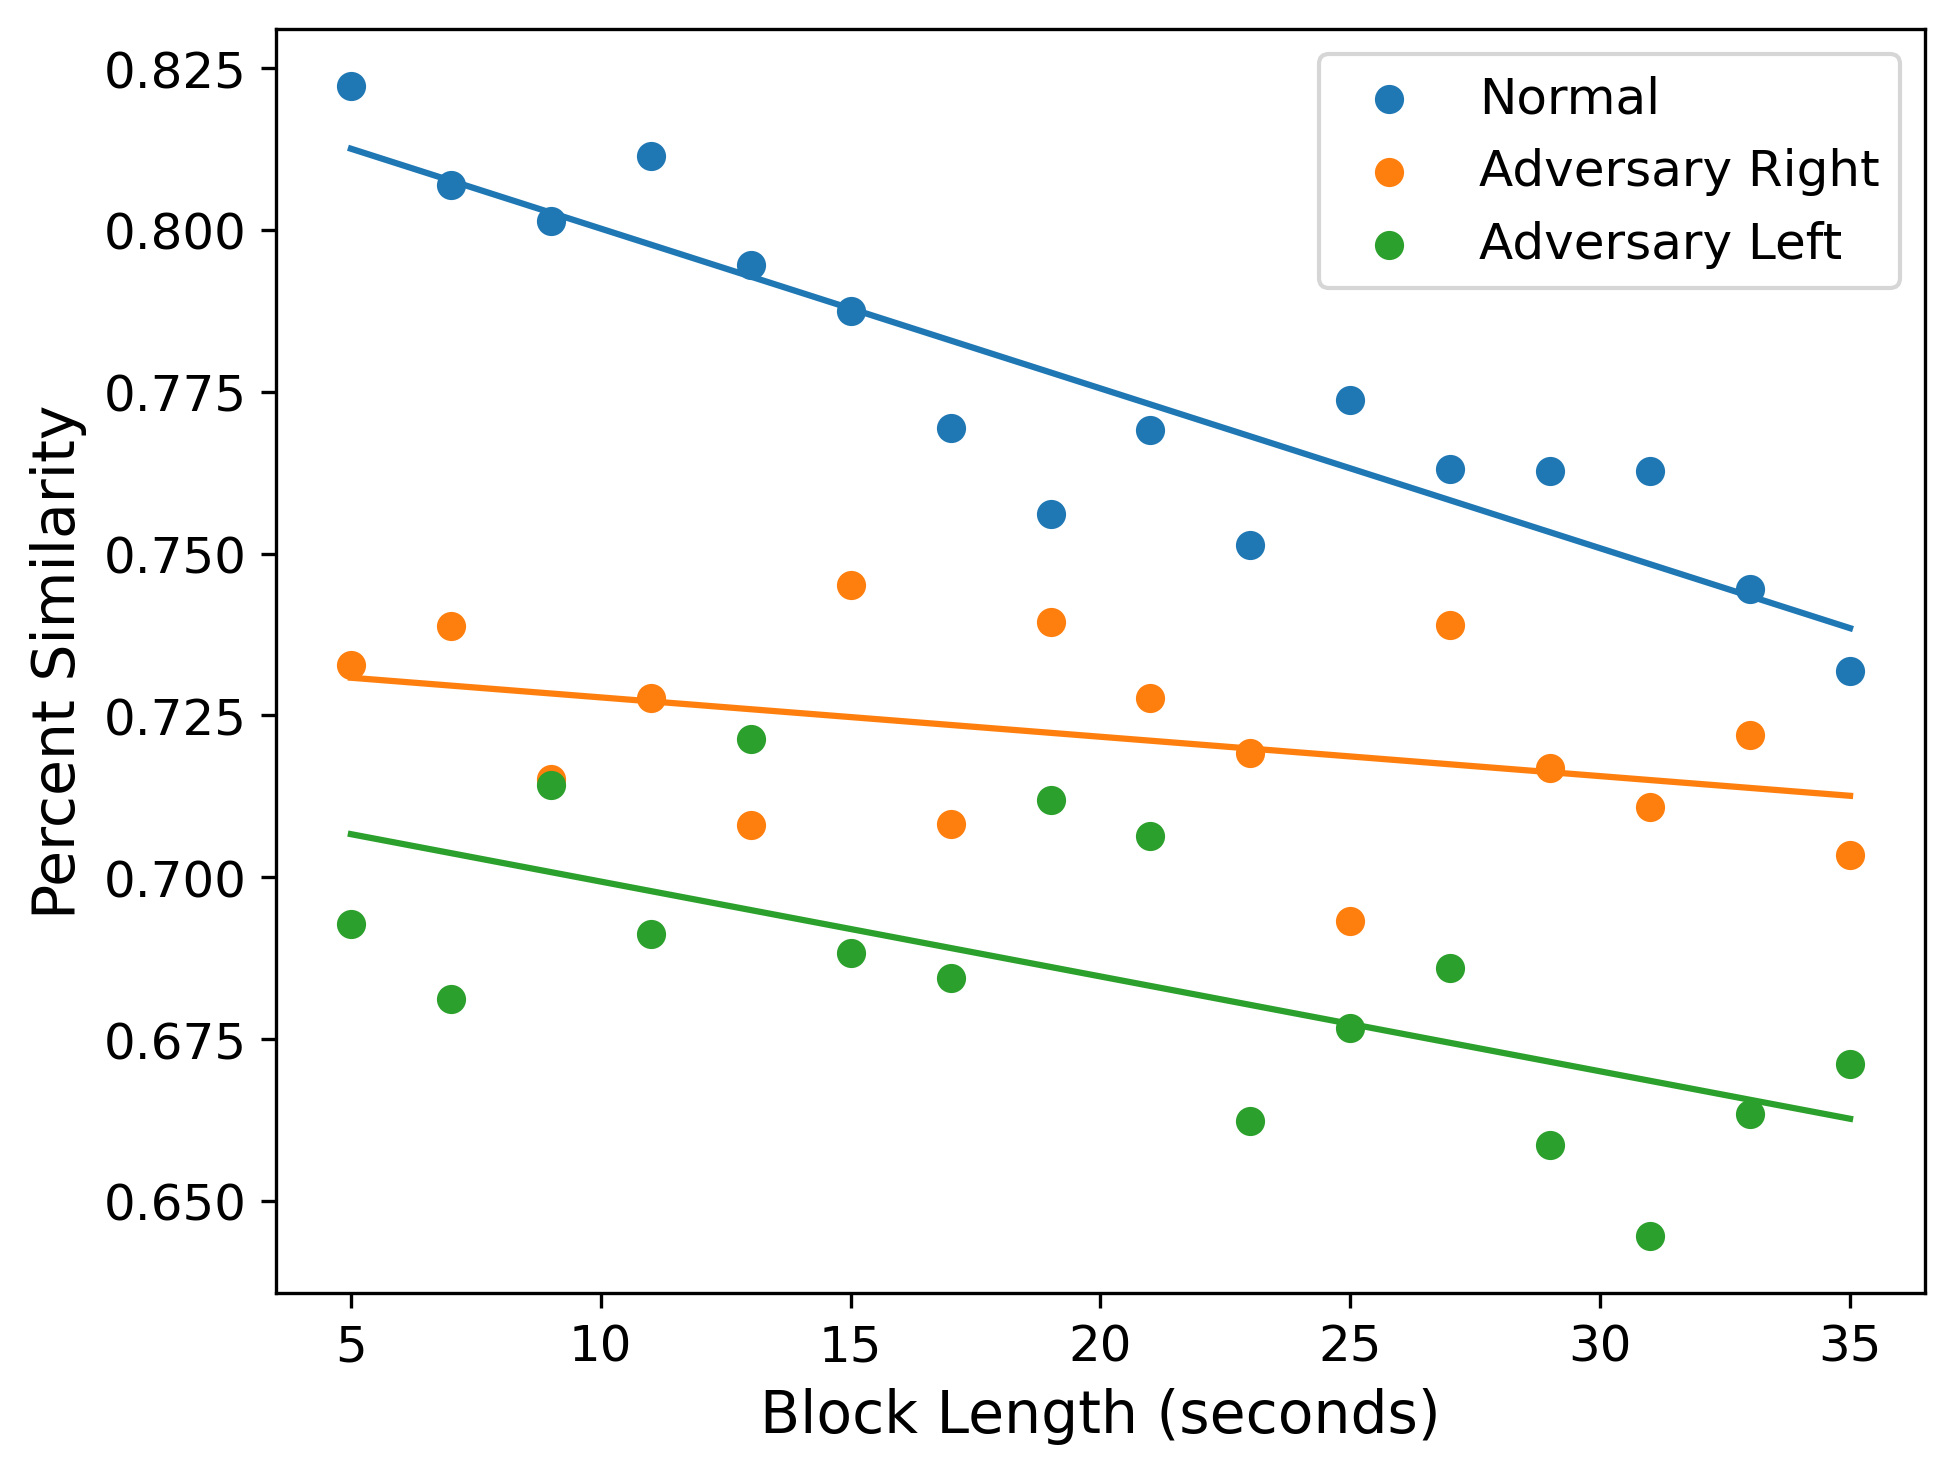
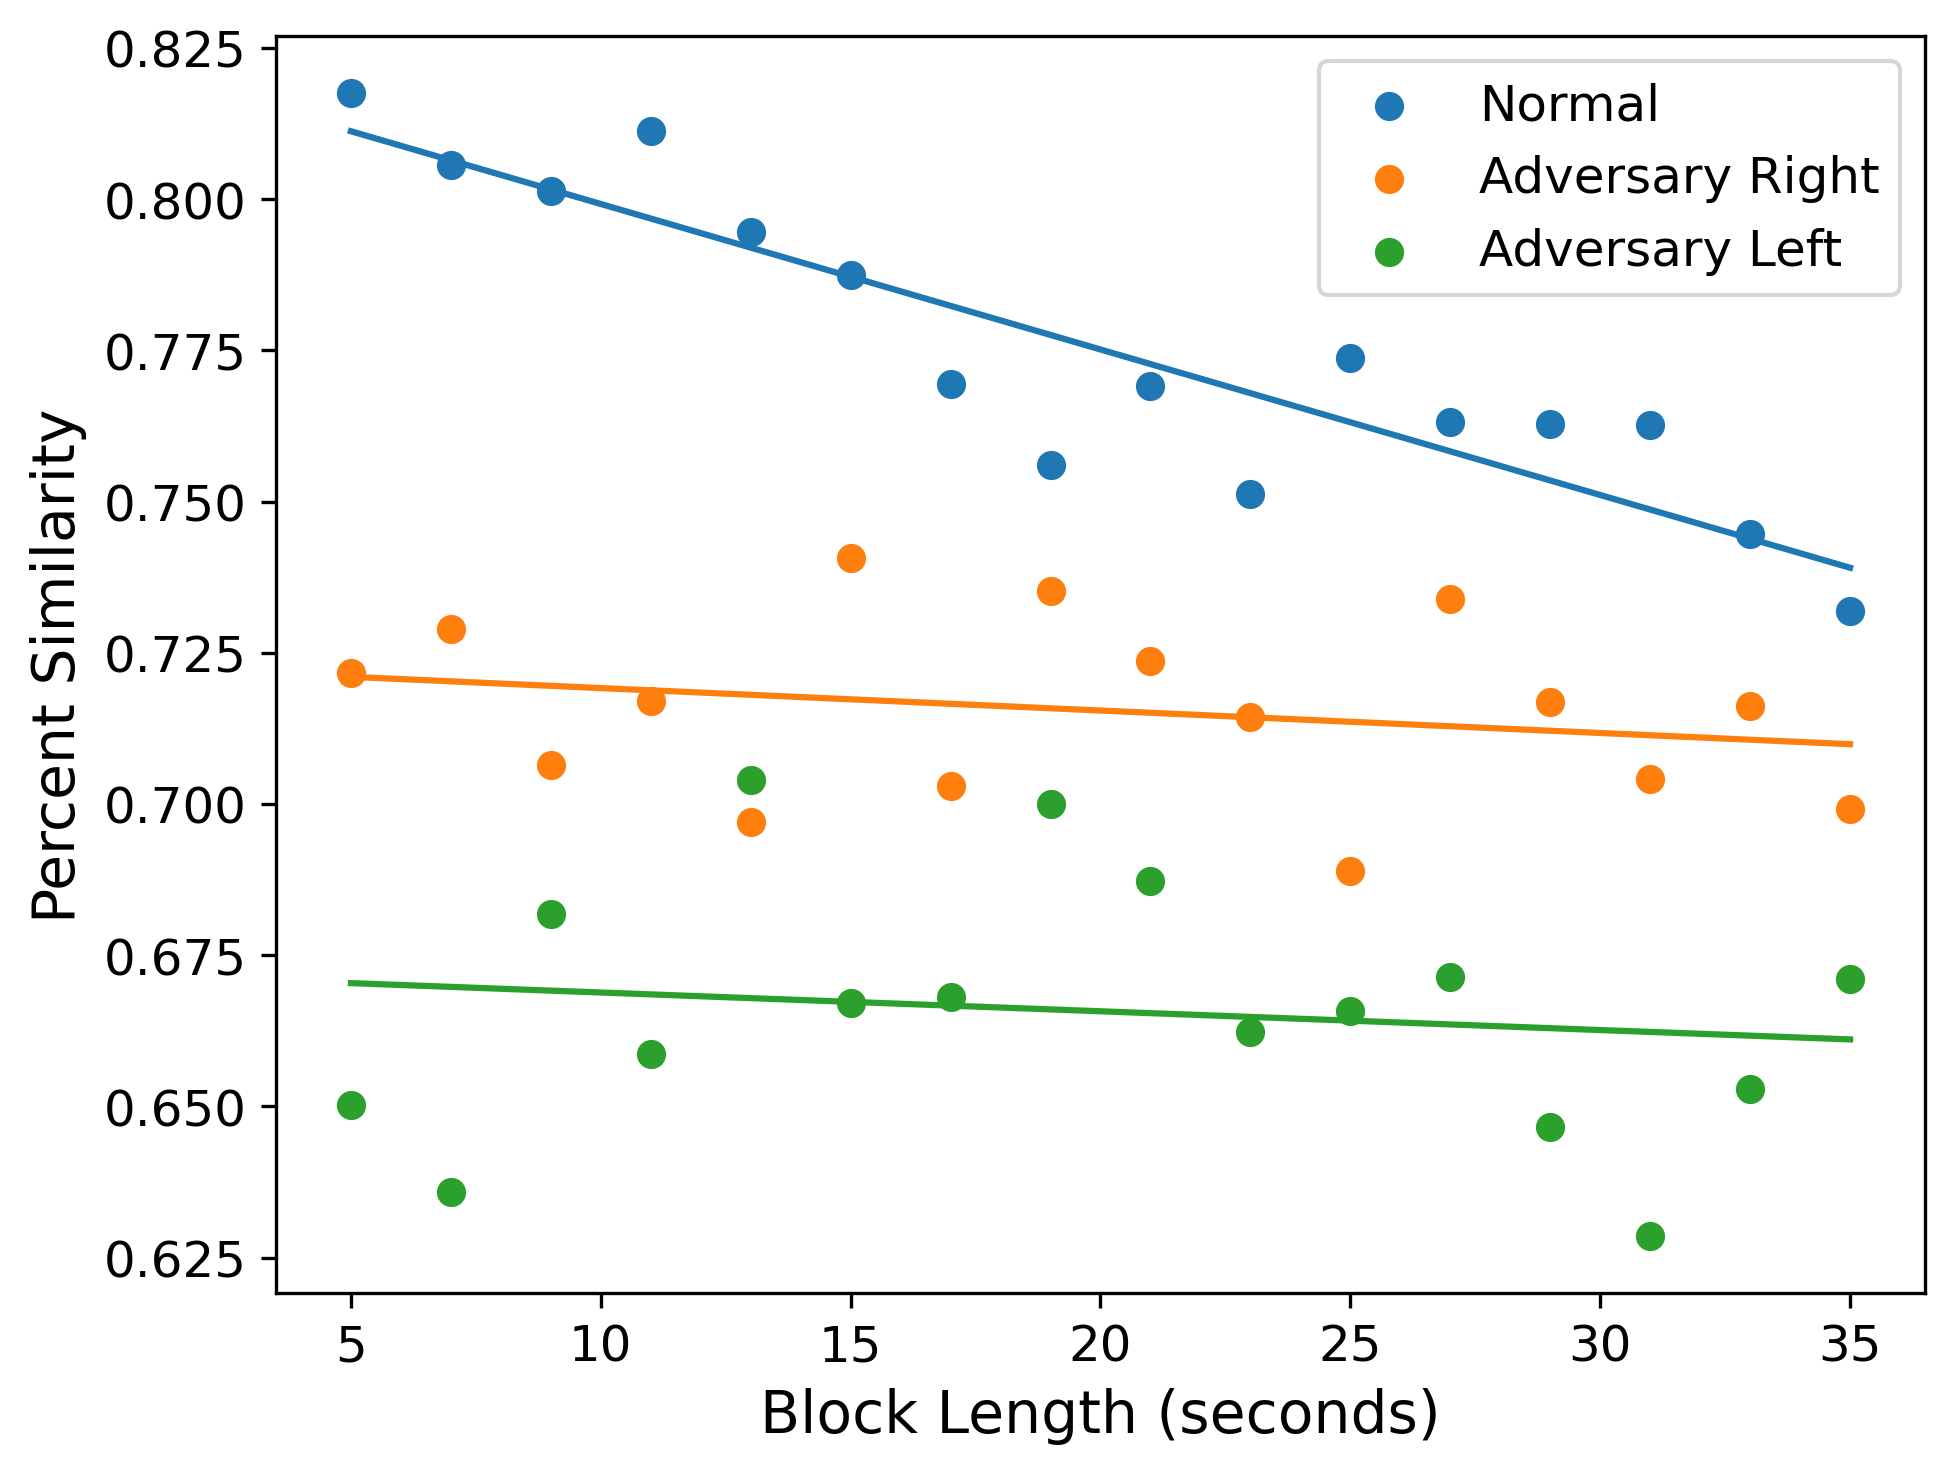
Modified all the things to match the thing

diff --git a/encode.py b/encode.py
@@ -2,6 +2,7 @@ import pandas as pd
 import numpy as np
 import matplotlib.pyplot as plt
 import matplotlib
+import math
 
 def encode_event(t, e, reverse=False, time_resolution=4, bits_to_drop=1):
     """
@@ -17,7 +18,7 @@ def encode_event(t, e, reverse=False, time_resolution=4, bits_to_drop=1):
 
     return gray_code[int(t/(1<<bits_to_drop)) % (1<<time_resolution)] + (normal_map[e] if not reverse else reverse_map[e])
 
-def encode_zone(filename, start_time, length, zone_multiplier):
+def encode_zone(filename, start_time, length, zone_multiplier=10):
     """
     Takes in a file with sequential data about how many vehicles are in a zone at any given time
     Takes the average number of vehicles over the time period
@@ -31,7 +32,7 @@ def encode_zone(filename, start_time, length, zone_multiplier):
 
     num_frames = 0
     num_vehicles = 0
-
+    
     for _, entry in df.iterrows():
         t = entry.iloc[0]
         num = entry.iloc[-1]
@@ -42,8 +43,11 @@ def encode_zone(filename, start_time, length, zone_multiplier):
 
     average_vehicles = num_vehicles/num_frames
 
+    power_of_two = 2**int(math.log(zone_multiplier, 2)+2)
+    #power_of_two = 16
+
     #print(average_vehicles)
-    return gray_code[(average_vehicles*zone_multiplier)//1 % 16]
+    return gray_code[(average_vehicles*zone_multiplier)//1 % power_of_two]
 
 def block_encoding(filename, start_time, block_size, num_blocks, time_gap=0, reverse=False, tres=4, bits_to_drop=1, zone_name=None, zone_multiplier=10):
     """
@@ -52,7 +56,7 @@ def block_encoding(filename, start_time, block_size, num_blocks, time_gap=0, rev
     df = pd.read_csv(filename)
 
     blocks = ['' for _ in range(num_blocks)]
-    """
+    
     for _, entry in df.iterrows():
         t = entry.iloc[0]
         e = entry.iloc[1]
@@ -61,10 +65,10 @@ def block_encoding(filename, start_time, block_size, num_blocks, time_gap=0, rev
 
         if block >= 0 and block < num_blocks and (t - start_time - block*(block_size+time_gap)) <= block_size:
             blocks[block] += (encode_event(t, e, reverse, time_resolution=tres, bits_to_drop=bits_to_drop))
-    """
+    
     if zone_name is not None:
         for index in range(len(blocks)):
-            blocks[index] += encode_zone(zone_name, start_time + index*block_size, block_size, zone_multiplier)
+            blocks[index] += encode_zone(zone_name, start_time + index*block_size, block_size, zone_multiplier=zone_multiplier)
     
     print(blocks)
     return blocks
@@ -419,7 +423,8 @@ def graph_block_size():
     bx.set_xlabel("Block Length (seconds)")
     bx.set_ylabel("Percent Similarity")
 
-    fig1.savefig('figures/Block-Length-Both-Scatter-Averaged.png', dpi = 300, bbox_inches='tight')
+    fig1.savefig('figures/Block-Length-Events-Scatter-Averaged.png', dpi = 300, bbox_inches='tight')
+    plt.show()
     
 def graphs_normal_time_resolution_block_size():
 
@@ -530,7 +535,7 @@ def graphs_zone_parameters():
     X_left = []
     X = {'l': X_left, 'r': X_right, 'n': X_normal}
     
-    for i in range(4, 133, 16):
+    for i in range(5, 36, 5):
         
         temp_data_norm = [0]
         num_norm = [0]
@@ -550,12 +555,13 @@ def graphs_zone_parameters():
             length = pair[-1]
             t = pair[2]
         
-            #Use a block size of fifteen because that is relatively neutral
-            n = length//15
+            #Use a block size of ten because that is relatively neutral
+            n = length//10
+            print(n)
         
-            block_1 = block_encoding(data_1, t, block_size=i, num_blocks=n, time_gap=0, reverse=True,
+            block_1 = block_encoding(data_1, t, block_size=10, num_blocks=n, time_gap=0, reverse=True,
                                         tres=4, bits_to_drop=1, zone_name=zone_1, zone_multiplier=i)
-            block_2 = block_encoding(data_2, t, block_size=i, num_blocks=n, time_gap=0,
+            block_2 = block_encoding(data_2, t, block_size=10, num_blocks=n, time_gap=0,
                                         tres=4, bits_to_drop=1, zone_name=zone_2, zone_multiplier=i)
         
             #data[pair[3]].append(validate_block(block_1, block_2))
@@ -574,9 +580,9 @@ def graphs_zone_parameters():
         
     
 
-    bx.scatter(X_normal, data_normal)
-    bx.scatter(X_right, data_right)
-    bx.scatter(X_left, data_left)
+    bx.scatter(X_normal, data_normal, color="#56b4e9")
+    bx.scatter(X_right, data_right, color="#009e73")
+    bx.scatter(X_left, data_left, color="#d55e00")
 
     bx.legend(['Normal', 'Adversary Right','Adversary Left'])
     #bx.legend(['Normal', 'Adversary'])
@@ -584,13 +590,13 @@ def graphs_zone_parameters():
     #plot the lines of best fit
     a,b = best_fit(X_normal, data_normal)
     yfit = [a + b * xi for xi in X_normal]
-    bx.plot(X_normal, yfit)
+    bx.plot(X_normal, yfit, color="#56b4e9")
     a,b = best_fit(X_right, data_right)
     yfit = [a + b * xi for xi in X_right]
-    bx.plot(X_right, yfit)
+    bx.plot(X_right, yfit, color="#009e73")
     a,b = best_fit(X_left, data_left)
     yfit = [a + b * xi for xi in X_left]
-    bx.plot(X_left, yfit)
+    bx.plot(X_left, yfit, color="#d55e00")
     
 
     
@@ -600,8 +606,8 @@ def graphs_zone_parameters():
     fig1.savefig('figures/Zone-Multiplier-16b.png', dpi = 300, bbox_inches='tight')
 
 if __name__ == "__main__":
-    graphs_zone_parameters()
-    #graphs_old()
+    #graphs_zone_parameters()
+    graphs_old()
     #graph_block_size()
     #graphs_normal_time_resolution_block_size()
     #front_normal = "data-files/data_front_ultrawide.csv"
